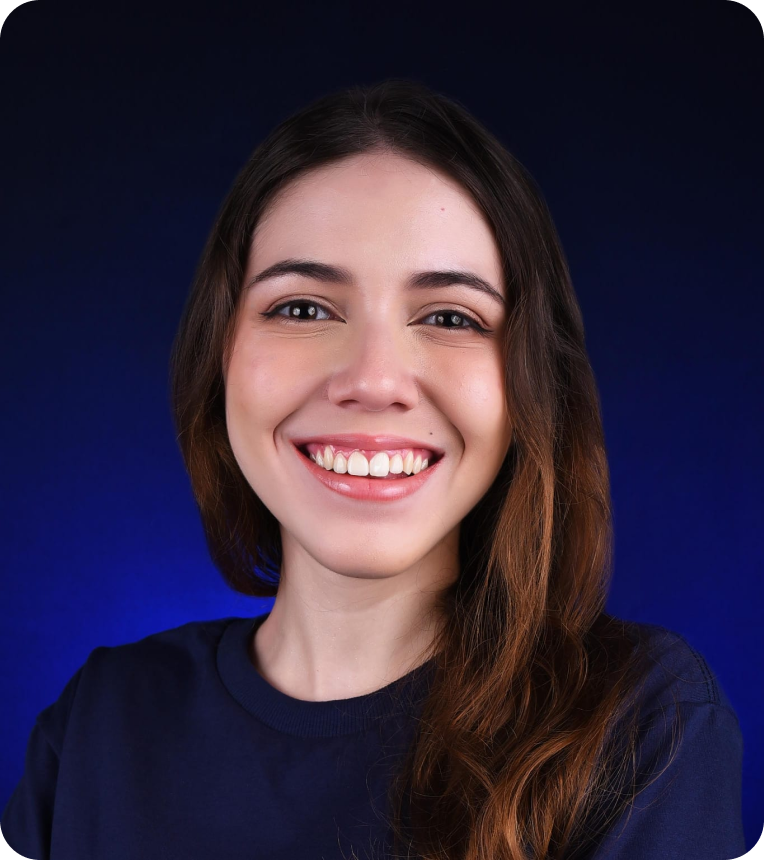
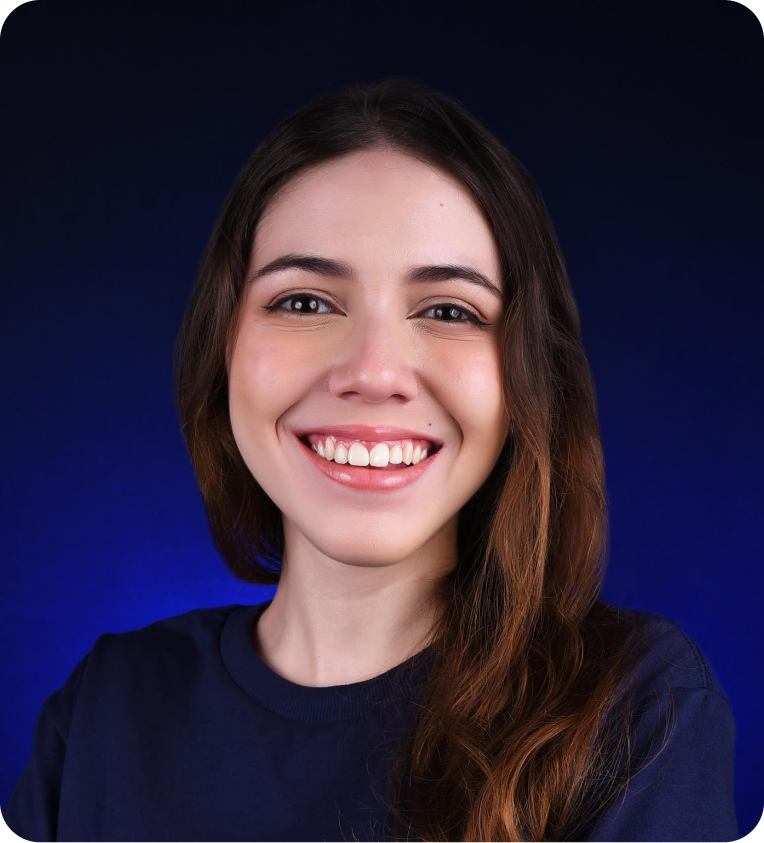
socorro

diff --git a/assets/css/main.css b/assets/css/main.css
@@ -330,7 +330,7 @@ header {
 }
 
 .imagem-aside2 img {
-    width: 337px;
+    width: 400px;
     height: auto;
 
     margin-left: 50px;
